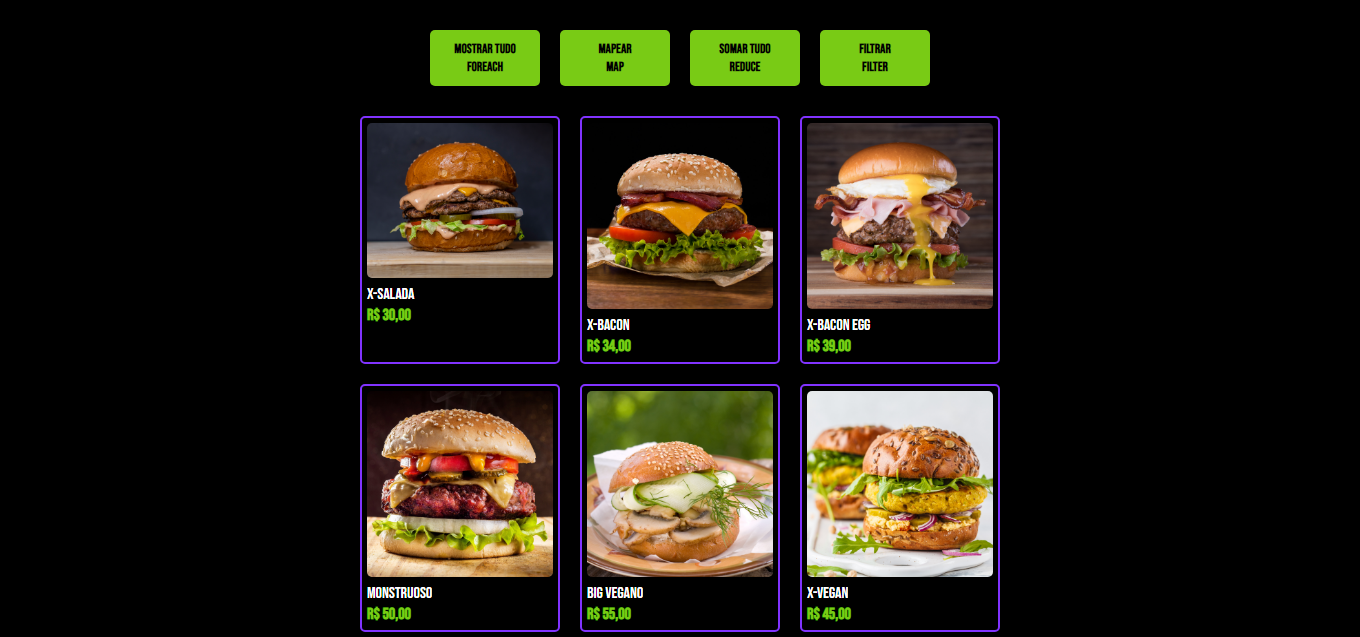
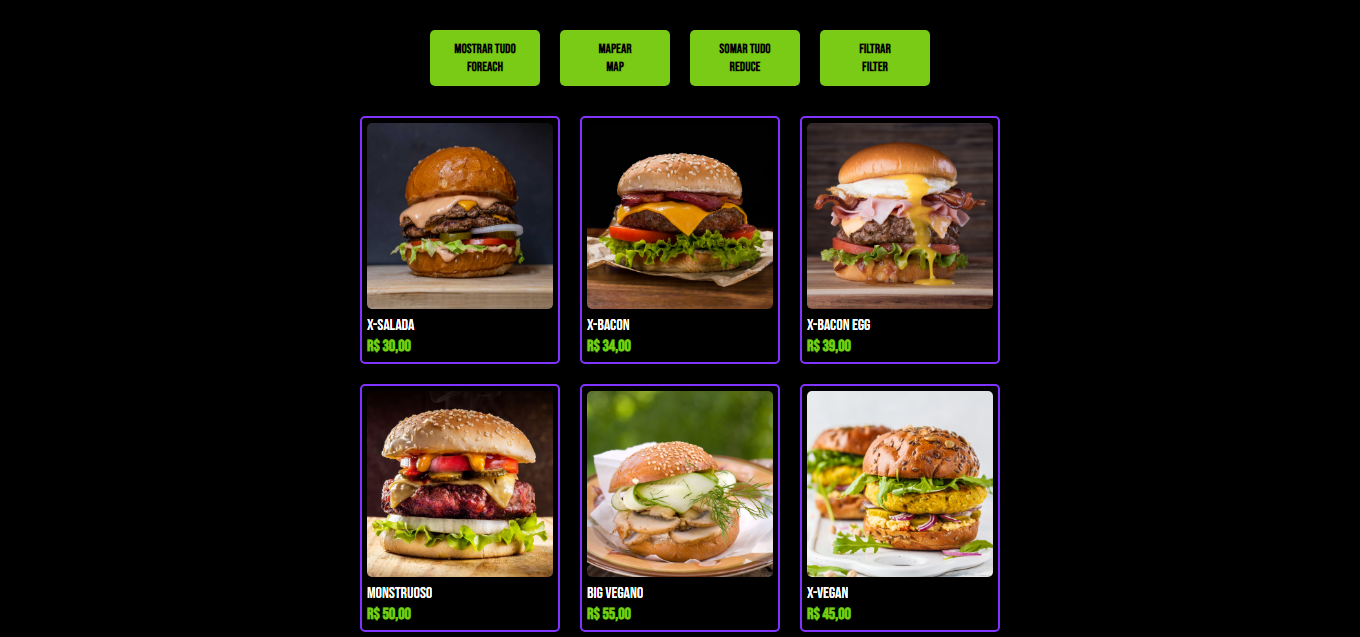
Atualizar JS

Changed region(s): [[0.2471, 0.2088, 0.4324, 0.5667]]

diff --git a/js/products.js b/js/products.js
@@ -1,8 +1,8 @@
 const menuOptions = [
-    { name: 'X-Salada', price: 30, vegan: false, src: './img/xsalada.jpeg' },
+    { name: 'X-Salada', price: 30, vegan: false, src: './img/xsalada.jpg' },
     { name: 'X-Bacon', price: 34, vegan: false, src: './img/xbacon.png' },
     { name: 'X-Bacon Egg', price: 39, vegan: false, src: './img/bacon-egg.png' },
     { name: 'Monstruoso', price: 50, vegan: false, src: './img/monstruoso.png' },
     { name: 'Big Vegano', price: 55, vegan: true, src: './img/xvegan.png' },
     { name: 'X-Vegan', price: 45, vegan: true, src: './img/monstruoso-vegan.png' },
-    ]
+]
